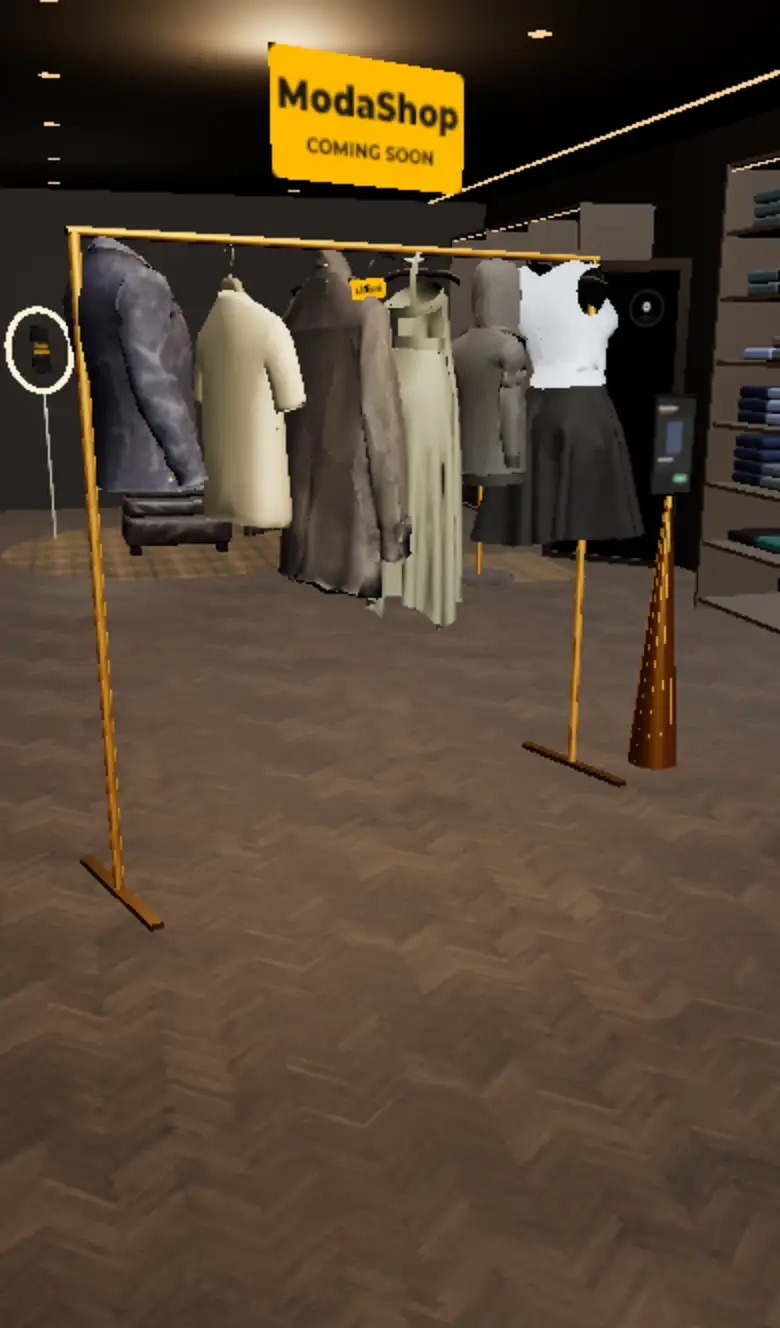
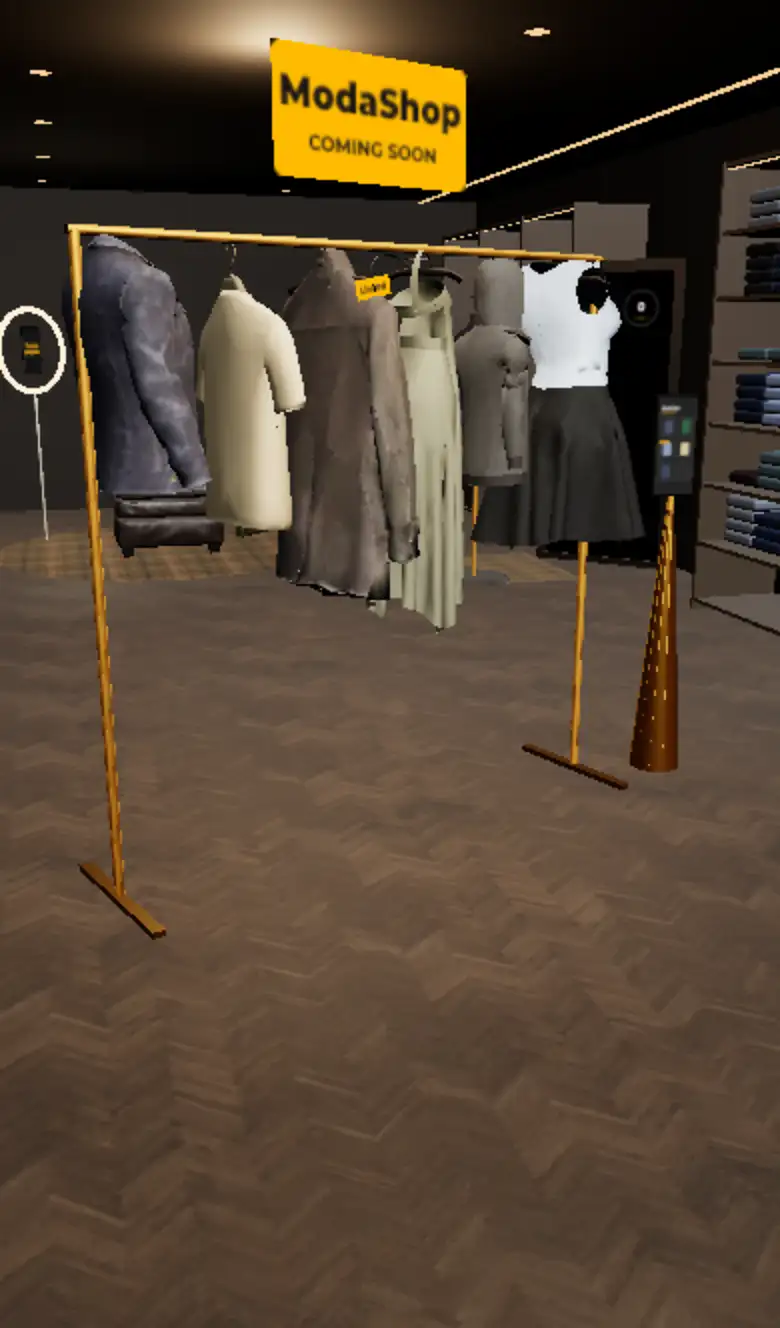
Smooth hero and weather swaps, valet stand, grade tween, packed non-overlapping racks

diff --git a/world3d.js b/world3d.js
@@ -78,7 +78,7 @@ const dlGeo=new THREE.CircleGeometry(.06,20);const dl=new THREE.InstancedMesh(dl
  for(let z=Z0-1;z>Z1;z-=1.5)for(const x of[-1.1,1.1]){if(k<40){m.compose(new THREE.Vector3(x,H-.005,z),q,new THREE.Vector3(1,1,1));dl.setMatrixAt(k++,m)}}dl.count=k}scene.add(dl);
 // cove LED along ceiling edge
 [-W+.62,W-.62].forEach(x=>{const s=new THREE.Mesh(new THREE.BoxGeometry(.02,.02,Z0-Z1),led);s.position.set(x,H-.02,(Z0+Z1)/2);scene.add(s)});
-scene.add(new THREE.HemisphereLight(0xfff1e0,0x20160f,.25));
+const hemi=new THREE.HemisphereLight(0xfff1e0,0x20160f,.25);scene.add(hemi);
 const pts=[0,1].map(()=>{const p=new THREE.PointLight(0xffd6a8,7,7,2);scene.add(p);return p});
 const key=new THREE.SpotLight(0xfff0dc,14,9,.6,.8,1.4);key.position.set(0,H-.05,4);key.castShadow=!mobile;key.shadow.mapSize.set(1024,1024);key.shadow.bias=-.0003;key.shadow.radius=4;scene.add(key);scene.add(key.target);
 
@@ -94,7 +94,7 @@ const foldM=pbr('jersey_melange',1.6,0xffffff,{roughness:1});
 const boxM=new THREE.MeshStandardMaterial({color:0xd8c9b0,roughness:.8});
 // hanging garments collected in chunks
 const garmentSlots=[];// {type,mtx,col,chunk}
-function hang(type,x,y,z,facing,col,chunk){const m=new THREE.Matrix4();QQ.setFromEuler(new THREE.Euler(0,facing+(Math.random()-.5)*.12,0));m.compose(VV.set(x,y,z),QQ,SS);garmentSlots.push({type,m,col,chunk})}
+let curZC=0;function hang(type,x,y,z,facing,col,chunk){const rail=x.toFixed(2)+'|'+y+'|'+curZC.toFixed(2);const m=new THREE.Matrix4();QQ.setFromEuler(new THREE.Euler(0,facing+(Math.random()-.5)*.12,0));m.compose(VV.set(x,y,z),QQ,SS);garmentSlots.push({type,m,col,chunk,rail,x,y,facing})}
 const rnd=(a)=>a[Math.floor(Math.random()*a.length)];
 const SKIPR=[[-3.6,-6.4],[-18.6,-20.6]];// window, mirror on right wall
 const PATTERN=['A','B','C','B','D','A','B','E'];
@@ -103,8 +103,8 @@ const units=[];
 [-1,1].forEach(side=>{let u=0;for(let zc=Z0-.8;zc>Z1+.5;zc-=UW,u++){
   if(side>0&&SKIPR.some(([a,b])=>zc<a&&zc>b))continue;
   if(side<0&&zc<-20.6&&zc>-22.4)continue;// lounge nook
-  const type=PATTERN[(u+(side>0?3:0))%PATTERN.length];const x=side*(W-DEPTH/2);const facing=side<0?Math.PI/2:-Math.PI/2;const inner=side*(W-DEPTH);
-  const chunk=Math.max(0,Math.min(8,Math.round((Z0-1.5-zc)/3.3)));
+  const type=PATTERN[(u+(side>0?3:0))%PATTERN.length];const x=side*(W-DEPTH/2);const facing=side<0?0:Math.PI;const inner=side*(W-DEPTH);
+  curZC=zc;const chunk=Math.max(0,Math.min(8,Math.round((Z0-1.5-zc)/3.3)));
   units.push({zc,side,type});
   // carcass
   [zc+UW/2,zc-UW/2].forEach(z=>{M4.makeTranslation(x,UH/2,z);addPart('side',G.side,walnut,M4)});
@@ -113,11 +113,11 @@ const units=[];
   M4.makeTranslation(x,.06,zc);addPart('shelf',G.shelf,walnut,M4);
   M4.makeTranslation(inner+side*.02,UH-.04,zc);addPart('led',G.ledbar,led,M4);
   const rodAt=(y)=>{M4.makeRotationX(Math.PI/2).setPosition(x,y,zc);addPart('rod',G.rod,chrome,M4)};
-  if(type==='A'){rodAt(2.05);const ty=['coat','trench','slip','dress','party','coat'];for(let z=zc+UW/2-.08;z>zc-UW/2+.05;z-=dens*1.1){const t=rnd(ty);hang(t,x,2.04,z,facing,rnd(PAL[t]),chunk)}}
-  if(type==='B'){rodAt(2.05);rodAt(1.05);M4.makeTranslation(x,1.6,zc);addPart('shelf',G.shelf,walnut,M4);
+  if(type==='A'){rodAt(2.05);const ty=['coat','trench','slip','dress','party','coat'];for(let z=zc+UW/2-.1;z>zc-UW/2+.08;z-=dens*2){const t=rnd(ty);hang(t,x,2.04,z,facing,rnd(PAL[t]),chunk)}}
+  if(type==='B'){rodAt(2.05);rodAt(1.05);
     const up=['tee','shirt','hoodie','jacket','denim','tee'],lo=['pants','pants','shirt'];
-    for(let z=zc+UW/2-.08;z>zc-UW/2+.05;z-=dens){const t=rnd(up);hang(t,x,2.04,z,facing,rnd(PAL[t]),chunk)}
-    for(let z=zc+UW/2-.08;z>zc-UW/2+.05;z-=dens*1.2){const t=rnd(lo);hang(t,x,1.04,z,facing,rnd(PAL[t]),chunk)}}
+    for(let z=zc+UW/2-.09;z>zc-UW/2+.07;z-=dens*1.4){const t=rnd(up);hang(t,x,2.04,z,facing,rnd(PAL[t]),chunk)}
+    for(let z=zc+UW/2-.09;z>zc-UW/2+.07;z-=dens*1.1){const t=rnd(lo);hang(t,x,1.04,z,facing,rnd(PAL[t]),chunk)}}
   if(type==='C'){for(let s=0;s<6;s++){const y=.42+s*.36;M4.makeTranslation(x,y,zc);addPart('shelf',G.shelf,walnut,M4);
     for(const dz of[-.3,0,.3]){const n=1+Math.floor(Math.random()*4);const c=rnd([0xf3efe7,0xc9b79c,0x3d4a5c,0x6da87f,0x8a7a66,0x2b2b2b,0xd8cdb8,0x5a2330,0x9aa38a]);
       for(let k=0;k<n;k++){M4.makeRotationY((Math.random()-.5)*.08).setPosition(x+side*.02,y+.05+k*.072,zc+dz);addPart('fold',G.fold,foldM,M4,new THREE.Color(c).offsetHSL(0,0,(Math.random()-.5)*.05).getHex())}}}}
@@ -125,7 +125,7 @@ const units=[];
       for(const dz of[-.24,.24])units.push({shoe:true,x:x+side*.03,y:y+.05,z:zc+dz,side});}
     for(const dz of[-.25,.25]){M4.makeTranslation(x,UH-.09,zc+dz);addPart('sbox',G.shoebox,boxM,M4)}}
   if(type==='E'){for(let s=0;s<4;s++){M4.makeTranslation(inner+side*.02,.2+s*.24,zc);addPart('drawer',G.drawer,walnut,M4);M4.makeTranslation(inner-side*.005,.24+s*.24,zc);addPart('handle',G.handle,brass,M4)}
-    M4.makeTranslation(x,1.08,zc);addPart('shelf',G.shelf,walnut,M4);rodAt(2.05);for(let z=zc+UW/2-.08;z>zc-UW/2+.05;z-=dens){const t=rnd(['tee','shirt']);hang(t,x,2.04,z,facing,rnd(PAL[t]),chunk)}}
+    M4.makeTranslation(x,1.08,zc);addPart('shelf',G.shelf,walnut,M4);rodAt(2.05);for(let z=zc+UW/2-.09;z>zc-UW/2+.07;z-=dens*1.4){const t=rnd(['tee','shirt']);hang(t,x,2.04,z,facing,rnd(PAL[t]),chunk)}}
 }});
 flushParts();
 
@@ -137,21 +137,30 @@ function bake(o,swayAmp){o.updateMatrixWorld(true);const parts=[];o.traverse(m=>
   const mt=m.material.clone();mt.side=THREE.DoubleSide;mt.envMapIntensity=.8;if(mt.map)mt.map.anisotropy=4;sway(mt,swayAmp);parts.push({geo:g,mat:mt})});return parts}
 const PARTS={},HI={};
 await Promise.all(TYPES.map(async t=>{PARTS[t]=bake(await loadGLB(`models/sf/${SF[t]}_lo.glb`),t==='coat'||t==='trench'?.5:1)}));
+// pack each rail by real garment thickness along the rod (world z), touching but not intersecting
+const THK={},WID={};TYPES.forEach(t=>{const b=new THREE.Box3();PARTS[t].forEach(q=>{q.geo.computeBoundingBox();b.union(q.geo.boundingBox)});THK[t]=b.max.z-b.min.z;WID[t]=b.max.x-b.min.x});
+{const rails={};garmentSlots.forEach(g=>(rails[g.rail]=rails[g.rail]||[]).push(g));const keep=[];let dropped=0,overl=0;
+ for(const k in rails){const L=rails[k];const zc=+k.split('|')[2];let z=zc+UW/2-.035;const zEnd=zc-UW/2+.035;
+  for(const g of L){const th=Math.max(.035,THK[g.type]*.85)+.012;if(z-th<zEnd){dropped++;continue}
+   const zz=z-th/2;z-=th;const sc=Math.min(1,(DEPTH-.04)/Math.max(.01,WID[g.type]));
+   QQ.setFromEuler(new THREE.Euler(0,g.facing+(Math.random()-.5)*.06,0));g.m=new THREE.Matrix4().compose(VV.set(g.x,g.y,zz),QQ,new THREE.Vector3(sc,1,1));g.z=zz;g.th=th;keep.push(g)}}
+ for(const k in rails){const L=keep.filter(g=>g.rail===k);for(let i=1;i<L.length;i++){if(L[i-1].z-L[i-1].th/2<L[i].z+L[i].th/2-1e-4)overl++}}
+ garmentSlots.length=0;keep.forEach(g=>garmentSlots.push(g));window.__rackCheck={rails:Object.keys(rails).length,items:keep.length,dropped,overlaps:overl};console.log('rack pack',JSON.stringify(window.__rackCheck))}
 function loadHi(t){if(!HI[t])HI[t]=loadGLB(`models/sf/${SF[t]}.glb`).then(o=>bake(o,t==='coat'||t==='trench'?.5:1));return HI[t]}
 const showcase=[];
-function addHanger(g,t){if(OWNH[t])return;hangerGeo.forEach((hg,hi)=>{const h=new THREE.Mesh(hg,hi?chrome:hangerWood);h.position.y=HY[t];g.add(h)})}
+function addHanger(g,t){if(OWNH[t])return;hangerGeo.forEach((hg,hi)=>{const h=new THREE.Mesh(hg,hi?chrome:hangerWood);g.add(h)})}
 function fillG(g,parts,col){g.children.filter(c=>c.userData.garm).forEach(c=>{g.remove(c);c.material.dispose()});
-  parts.forEach(p=>{const m=new THREE.Mesh(p.geo,p.mat.clone());m.material.onBeforeCompile=p.mat.onBeforeCompile;m.material.customProgramCacheKey=p.mat.customProgramCacheKey;m.material.color.multiply(new THREE.Color(col));m.userData.garm=1;m.castShadow=!mobile;m.receiveShadow=true;g.add(m)})}
-function makeG(t,col=0xffffff,stop=-1,hanger=true){const g=new THREE.Group();g.userData={t,col,stop,hi:false};fillG(g,PARTS[t],col);if(hanger)addHanger(g,t);if(stop>=0)showcase.push(g);return g}
+  const off=g.userData.hanger&&!OWNH[g.userData.t]?-HY[g.userData.t]:0;parts.forEach(p=>{const m=new THREE.Mesh(p.geo,p.mat.clone());m.position.y=off;m.material.onBeforeCompile=p.mat.onBeforeCompile;m.material.customProgramCacheKey=p.mat.customProgramCacheKey;m.material.color.multiply(new THREE.Color(col));m.userData.garm=1;m.castShadow=!mobile;m.receiveShadow=true;g.add(m)})}
+function makeG(t,col=0xffffff,stop=-1,hanger=true){const g=new THREE.Group();g.userData={t,col,stop,hi:false,hanger};fillG(g,PARTS[t],col);if(hanger)addHanger(g,t);if(stop>=0)showcase.push(g);return g}
 function upgradeNear(){if(mobile)return;showcase.forEach(g=>{const u=g.userData;if(u.hi||u.loading||Math.abs(MC.t-u.stop)>1.6)return;u.loading=true;loadHi(u.t).then(p=>{fillG(g,p,u.col);u.hi=true})})}
 const chunks=[];
 for(let c=0;c<9;c++){const g=new THREE.Group();scene.add(g);const ch={g,meshes:[],center:new THREE.Vector3()};chunks.push(ch);
   const slots=garmentSlots.filter(s=>s.chunk===c);if(!slots.length)continue;
   let zs=0;slots.forEach(s=>zs+=s.m.elements[14]);ch.center.set(0,1.5,zs/slots.length);
   TYPES.forEach(t=>{const L=slots.filter(s=>s.type===t);if(!L.length)return;PARTS[t].forEach(p=>{const im=new THREE.InstancedMesh(p.geo,p.mat,L.length);
-    L.forEach((s,i)=>{im.setMatrixAt(i,s.m);im.setColorAt(i,new THREE.Color(s.col))});im.receiveShadow=true;g.add(im)})});
+    L.forEach((s,i)=>{const mm=s.m.clone().multiply(new THREE.Matrix4().makeTranslation(0,OWNH[t]?0:-HY[t],0));im.setMatrixAt(i,mm);im.setColorAt(i,new THREE.Color(s.col))});im.receiveShadow=true;g.add(im)})});
   const HS=slots.filter(s=>!OWNH[s.type]);
-  hangerGeo.forEach((hg,hi)=>{const im=new THREE.InstancedMesh(hg,hi===0?hangerWood:chrome,HS.length);HS.forEach((s,i)=>{const m=s.m.clone();m.multiply(new THREE.Matrix4().makeTranslation(0,HY[s.type],0));im.setMatrixAt(i,m)});g.add(im)})}
+  hangerGeo.forEach((hg,hi)=>{const im=new THREE.InstancedMesh(hg,hi===0?hangerWood:chrome,HS.length);HS.forEach((s,i)=>{im.setMatrixAt(i,s.m)});g.add(im)})}
 // shoes on D shelves
 loadGLB('models/props/rubber_boots.glb').then(o=>{const L=units.filter(u=>u.shoe);const subs=[];o.updateMatrixWorld(true);o.traverse(m=>m.isMesh&&subs.push(m));
   const b=new THREE.Box3().setFromObject(o),sz=new THREE.Vector3();b.getSize(sz);const k=.3/Math.max(sz.x,sz.z);
@@ -161,6 +170,29 @@ const decor=[['wicker_basket_02',.35],['vintage_suitcase',.5],['fishermans_hat',
 decor.forEach(([n,s],di)=>loadGLB(`models/props/${n}.glb`).then(o=>{const b=new THREE.Box3().setFromObject(o),sz=new THREE.Vector3();b.getSize(sz);const k=s/Math.max(sz.x,sz.z);
   units.filter((u,i)=>!u.shoe&&u.type&&(i+di*3)%7===0).slice(0,mobile?3:6).forEach(u=>{const c=o.clone(true);c.scale.setScalar(k);c.position.set(u.side*(W-DEPTH/2),UH-b.min.y*k,u.zc+(Math.random()-.5)*.3);c.rotation.y=Math.random()*6;scene.add(c)})}).catch(()=>{}));
 
+// ---------- smooth garment swapper (lift-off, drop-on settle, crossfade) ----------
+const RM=matchMedia('(prefers-reduced-motion: reduce)').matches;
+const eOut3=x=>1-Math.pow(1-x,3),eIn3=x=>x*x*x;
+function prepFade(g){g.traverse(m=>{if(m.isMesh&&!m.material.transparent){m.material.transparent=true;m.material.depthWrite=true;m.material.needsUpdate=true}})}
+function setOpacity(g,a){g.traverse(m=>{if(m.isMesh)m.material.opacity=a})}
+function makeSwapper(items,{lift=.32,drop=.42,dur=.95,spin=.28}={}){
+  items.forEach(it=>{it.w=0;it.tw=0;it.base=it.g.position.clone();it.rot=it.g.rotation.y;it.arr=-1;prepFade(it.g);it.g.visible=false});
+  let cur=-1;
+  return{items,get cur(){return cur},set(n){if(n===cur)return;cur=n;items.forEach((it,i)=>it.tw=i===n?1:0)},
+   busy(){return items.some(it=>it.w>0.001&&it.w<0.999)},
+   update(dt,t){const outGoing=items.some(it=>it.tw===0&&it.w>.45);
+    items.forEach(it=>{const sp=dt/dur;
+      if(it.tw===1){if(!outGoing||RM)it.w=Math.min(1,it.w+sp*1.15);if(it.w>=1&&it.arr<0)it.arr=t}else{it.w=Math.max(0,it.w-sp*1.35);it.arr=-1}
+      const g=it.g;g.visible=it.w>0.002;if(!g.visible)return;
+      if(RM){g.position.copy(it.base);g.rotation.set(0,it.rot,0);setOpacity(g,it.w);return}
+      let y=0,ry=0,rz=0,a=1;
+      if(it.tw===1){const e=eOut3(it.w);y=drop*(1-e);ry=-spin*.5*(1-e);a=Math.min(1,it.w*1.8);
+        if(it.arr>=0){const k=t-it.arr;rz=.035*Math.exp(-3.2*k)*Math.sin(9*k);ry+=.02*Math.exp(-2.5*k)*Math.sin(6*k)}}
+      else{const e=eIn3(1-it.w);y=lift*e;ry=spin*e;a=Math.min(1,it.w*1.6)}
+      g.position.set(it.base.x,it.base.y+y,it.base.z);g.rotation.set(0,it.rot+ry,rz);setOpacity(g,a)})}}}
+function safeUpgrade(sw,idx,inner,t,col){loadHi(t).then(p=>{const go=()=>{const it=sw.items[idx];if(it.w>0.001&&it.w<0.999||sw.busy()){setTimeout(go,300);return}
+  fillG(inner,p,col);prepFade(inner);setOpacity(inner,it.w);warm()};go()})}
+let warmT=0;function warm(){clearTimeout(warmT);warmT=setTimeout(()=>{try{const vis=[];scene.traverse(o=>{if(o.isGroup&&!o.visible&&o.userData.swap){vis.push(o);o.visible=true}});r.compile(scene,cam);vis.forEach(o=>o.visible=false);scene.traverse(m=>{if(m.isMesh&&m.material.map&&!m.material.map.__w){r.initTexture(m.material.map);m.material.map.__w=1}})}catch(e){}},50)}
 // ---------- stop 0: dress form + real draped looks ----------
 const MAN=new THREE.Vector3(mobile?0:.85,0,2.2);
 const man=new THREE.Group();man.position.copy(MAN);man.rotation.y=-.25;groups[0].add(man);
@@ -173,17 +205,23 @@ const form=new THREE.Mesh(formGeo,formM);form.castShadow=true;man.add(form);
  const rug=new THREE.Mesh(new THREE.CircleGeometry(1.25,64),pbr('wool_boucle',3,0xd9cbb6,{roughness:1}));rug.rotation.x=-Math.PI/2;rug.position.y=.004;rug.receiveShadow=true;man.add(rug)}
 const formBox=new THREE.Box3().setFromBufferAttribute(formGeo.attributes.position);const formSh=formBox.max.y-.12;
 const LOOKT=['coat','shirt','hoodie','party'];
-const looks=LOOKT.map((t,i)=>{const o=new THREE.Group();if(t==='coat'){const sh=makeG('shirt',0xeee6d4,-1,false);sh.position.y=formBox.max.y-.03;sh.scale.set(.8,.82,.85);o.add(sh);if(!mobile)loadHi('shirt').then(p=>fillG(sh,p,0xeee6d4))}const inner=makeG(t,0xffffff,-1,false);const gb=new THREE.Box3();PARTS[t].forEach(q=>{q.geo.computeBoundingBox();gb.union(q.geo.boundingBox)});const gs=new THREE.Vector3();gb.getSize(gs);const fs=new THREE.Vector3();formBox.getSize(fs);
-  const kx=Math.max(1,fs.x*1.12/gs.x),kz=Math.max(1,fs.z*1.22/gs.z);inner.scale.set(kx,Math.max(1,kx*.92),kz);inner.position.y=formBox.max.y-.02+(t==='hoodie'?.14:0);o.add(inner);o.visible=false;man.add(o);
-  if(!mobile||i===0)loadHi(t).then(p=>fillG(inner,p,0xffffff));return{o,w:0,tw:0}});
-await loadHi('coat');
+const lookInner=[];
+const looks=LOOKT.map((t,i)=>{const o=new THREE.Group();o.userData.swap=1;if(t==='coat'){const sh=makeG('shirt',0xeee6d4,-1,false);sh.position.y=formBox.max.y-.03;sh.scale.set(.8,.82,.85);o.add(sh);lookInner.push([i,sh,'shirt',0xeee6d4])}const inner=makeG(t,0xffffff,-1,false);const gb=new THREE.Box3();PARTS[t].forEach(q=>{q.geo.computeBoundingBox();gb.union(q.geo.boundingBox)});const gs=new THREE.Vector3();gb.getSize(gs);const fs=new THREE.Vector3();formBox.getSize(fs);
+  const kx=Math.max(1,fs.x*1.12/gs.x),kz=Math.max(1,fs.z*1.22/gs.z);inner.scale.set(kx,Math.max(1,kx*.92),kz);inner.position.y=formBox.max.y-.02+(t==='hoodie'?.14:0);o.add(inner);man.add(o);lookInner.push([i,inner,t,0xffffff]);return{g:o,o}});
+const lookSw=makeSwapper(looks,{lift:.3,drop:.4,dur:.9,spin:.3});
+await loadHi('coat');lookInner.forEach(([i,g,t,c])=>safeUpgrade(lookSw,i,g,t,c));
 // boots for rain look
 let rainBoots=null;loadGLB('models/props/rubber_boots.glb').then(o=>{const b=new THREE.Box3().setFromObject(o),sz=new THREE.Vector3();b.getSize(sz);const k=.32/Math.max(sz.x,sz.z);o.scale.setScalar(k);o.position.set(.42,-b.min.y*k,.25);o.rotation.y=-.6;man.add(o);rainBoots=o}).catch(()=>{});
-let curLook=0;looks[0].tw=1;
-function setLook(n){curLook=n;looks.forEach((l,i)=>l.tw=i===n?1:0)}
+let curLook=0;
+function setLook(n){curLook=n;lookSw.set(n)}
 addEventListener('mc-look',e=>setLook(e.detail));setLook(MC.look||0);
-function updateMannequin(dt){looks.forEach(l=>{const sp=l.tw>l.w?1.6:2.6;l.w+=(l.tw-l.w)*Math.min(1,dt*sp);const e=l.w*l.w*(3-2*l.w);l.o.visible=l.w>.02;
-  l.o.position.y=(1-e)*(l.tw>0?.55:.35);l.o.scale.setScalar(.97+.03*e)});if(rainBoots)rainBoots.visible=curLook===0;const on=Math.max(...looks.map(l=>l.w));form.scale.set(1-.2*on,1-.03*on,1-.32*on)}
+const GRADE=[{c:0xd6e2ff,i:12,e:.93,h:0xcad6ec},{c:0xffe0b4,i:16,e:1.08,h:0xfff0d8},{c:0xe6eeff,i:13,e:.98,h:0xdfe8f4},{c:0xffc48a,i:10,e:.84,h:0xd8b490}];
+const gk=new THREE.Color(0xfff0dc),gh=new THREE.Color(0xfff1e0),tc=new THREE.Color();let gE=1,gI=14;
+function updateMannequin(dt){lookSw.update(dt,clock.elapsedTime);if(rainBoots){rainBoots.visible=curLook===0||looks[0].w>.02;if(rainBoots.visible){prepFade(rainBoots);setOpacity(rainBoots,looks[0].w)}}
+  const on=Math.max(...looks.map(l=>l.w));form.scale.set(1-.2*on,1-.03*on,1-.32*on);
+  const hw=THREE.MathUtils.clamp(1.2-MC.t,0,1),G=GRADE[curLook]||GRADE[0],k=Math.min(1,dt*2.2);
+  tc.set(G.c).lerp(new THREE.Color(0xfff0dc),1-hw);gk.lerp(tc,k);key.color.copy(gk);tc.set(G.h).lerp(new THREE.Color(0xfff1e0),1-hw);gh.lerp(tc,k);hemi.color.copy(gh);
+  gE+=((1+(G.e-1)*hw)-gE)*k;gI+=((14+(G.i-14)*hw)-gI)*k;r.toneMappingExposure=gE;key.intensity=gI}
 // a freestanding rail behind the form with real garments
 {const rail=new THREE.Group();rail.position.set(mobile?1.5:2.05,0,MAN.z-.9);rail.rotation.y=-Math.PI/2+.35;groups[0].add(rail);
  [-.9,.9].forEach(x=>{const p=new THREE.Mesh(new THREE.CylinderGeometry(.016,.016,1.75,10),brass);p.position.set(x,.875,0);rail.add(p);const f=new THREE.Mesh(new THREE.BoxGeometry(.04,.02,.5),brass);f.position.set(x,.01,0);rail.add(f)});
@@ -242,15 +280,21 @@ const shaft=new THREE.Mesh(new THREE.CylinderGeometry(1.1,1.4,4,24,1,true),new T
 shaft.position.set(WIN.x-1.8,.9,WIN.z);shaft.rotation.z=-Math.PI/2.5;groups[2].add(shaft);
 // garment on a wall hook beside the window, swaps with weather
 const wxT=[['trench',0xffffff],['tee',0xf1ece2],['coat',0xffffff],['party',0xffffff]];
-const wxG=wxT.map(([t,c])=>{const m=makeG(t,c,2);m.position.set(W-.22,2.0,WIN.z+1.75);m.rotation.y=-Math.PI/2+.5;groups[2].add(m);return m});
-{const hk=new THREE.Mesh(new THREE.CylinderGeometry(.012,.012,.25,8),brass);hk.rotation.z=Math.PI/2;hk.position.set(W-.12,2.1,WIN.z+1.75);groups[2].add(hk)}
+const VAL=new THREE.Vector3(W-.95,0,WIN.z+.55);
+{const g=groups[2];const p=new THREE.Mesh(new THREE.CylinderGeometry(.015,.015,1.8,12),brass);p.position.set(VAL.x,.9,VAL.z);g.add(p);
+ const b=new THREE.Mesh(new THREE.CylinderGeometry(.2,.24,.03,32),walnutDark);b.position.set(VAL.x,.015,VAL.z);g.add(b);
+ const arm=new THREE.Mesh(new THREE.CylinderGeometry(.012,.012,.22,10),brass);arm.rotation.x=Math.PI/2;arm.position.set(VAL.x,1.8,VAL.z+.1);g.add(arm)}
+const wxG=wxT.map(([t,c],i)=>{const m=makeG(t,c,-1);m.userData.swap=1;m.position.set(VAL.x,1.78,VAL.z+.2);m.rotation.y=-.55;groups[2].add(m);return{g:m,t,c}});
+const wxSw=makeSwapper(wxG,{lift:.26,drop:.34,dur:.85,spin:.22});wxSw.set(0);
+wxG.forEach((it,i)=>safeUpgrade(wxSw,i,it.g,it.t,it.c));
+
 let wxShown=0;
 function updateWeather(dt,t){const near=Math.abs(MC.t-2)<1.2;const target=near?Math.floor((t/3.2)%4):0;
   wxShown+=(target-wxShown)*(Math.abs(target-wxShown)>2?1:Math.min(1,dt*2));skyM.uniforms.uMode.value=wxShown;
   const snow=target===2,rain=target===0;ptM.opacity=rain||snow?.7:0;ptM.size=snow?.03:.012;
   const a=pg.attributes.position;for(let i=0;i<NP;i++){let y=a.getY(i)-dt*(snow?.3:2.4);if(y<WIN.y-1.05)y=WIN.y+1.05;a.setY(i,y)}a.needsUpdate=true;
   shaft.material.opacity+=(((target===1)?.06:0)-shaft.material.opacity)*dt*3;
-  wxG.forEach((m,i)=>{const s=THREE.MathUtils.lerp(m.scale.x,i===target?1:.001,Math.min(1,dt*5));m.scale.setScalar(s);m.visible=s>.01})}
+  wxSw.set(target);wxSw.update(dt,t)}
 
 // ---------- stop 3: closet island with drawers + phone ----------
 function screenTex(draw){const c=document.createElement('canvas');c.width=256;c.height=520;const x=c.getContext('2d');const t=new THREE.CanvasTexture(c);t.colorSpace=THREE.SRGBColorSpace;t.userData={x,draw};draw(x,0);t.needsUpdate=true;return t}
